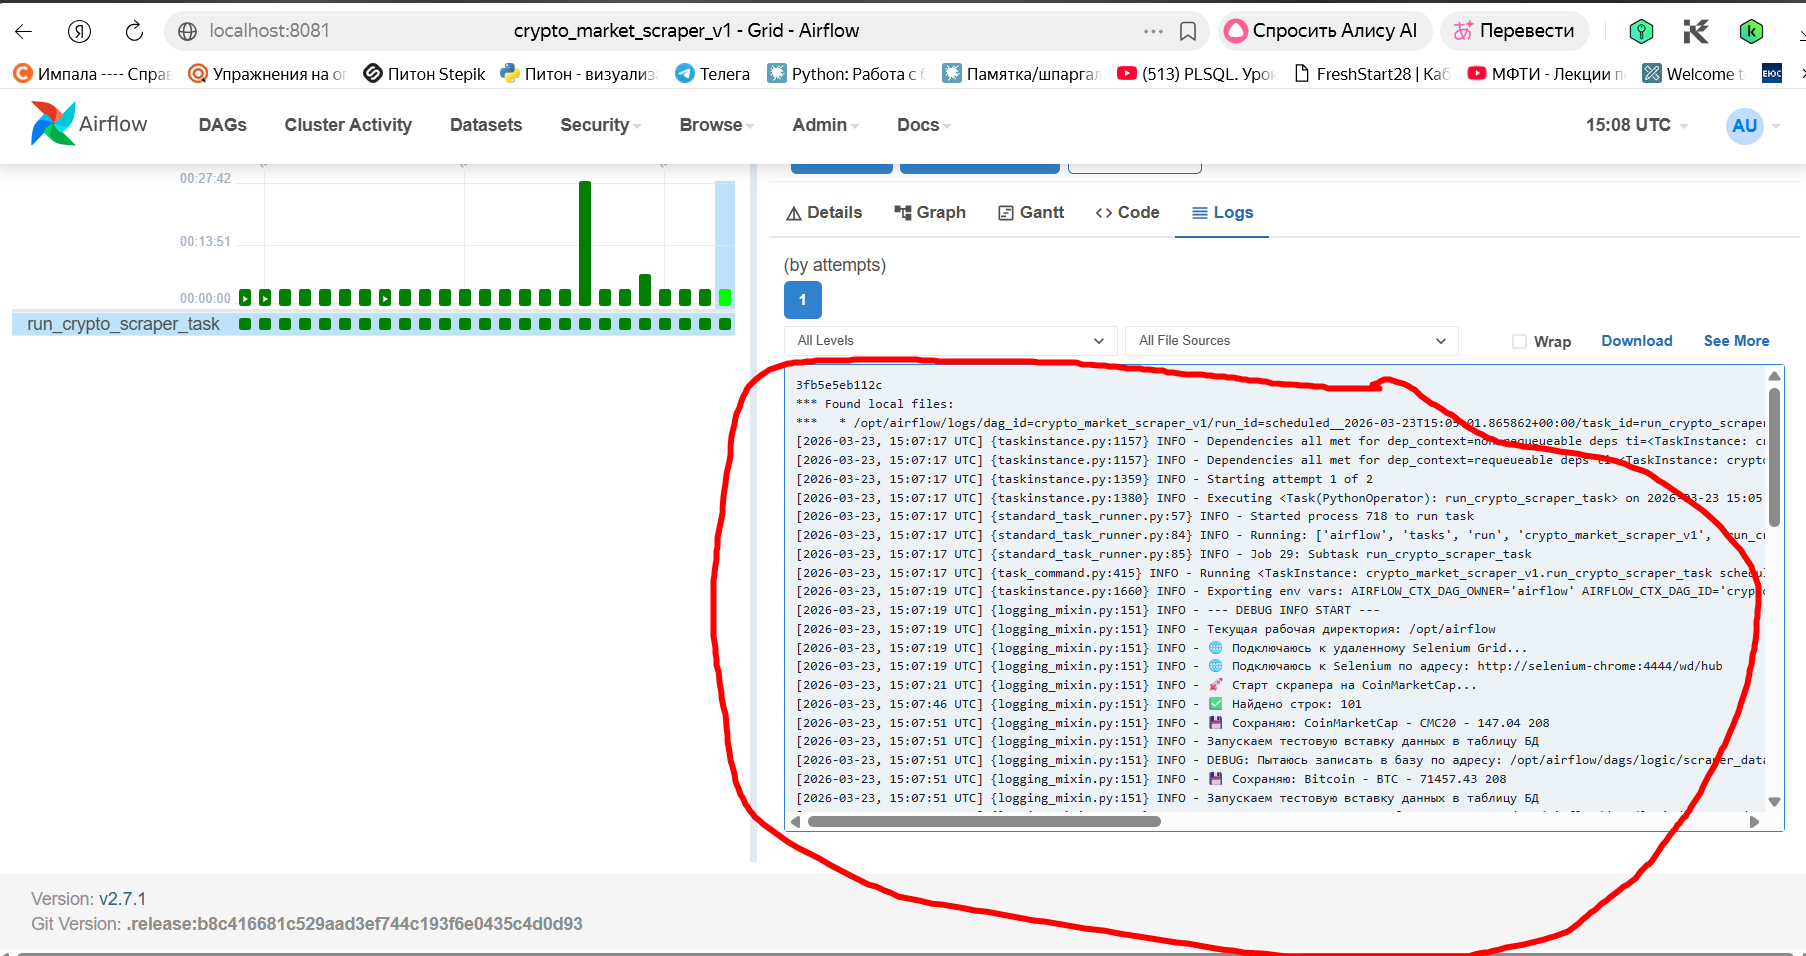
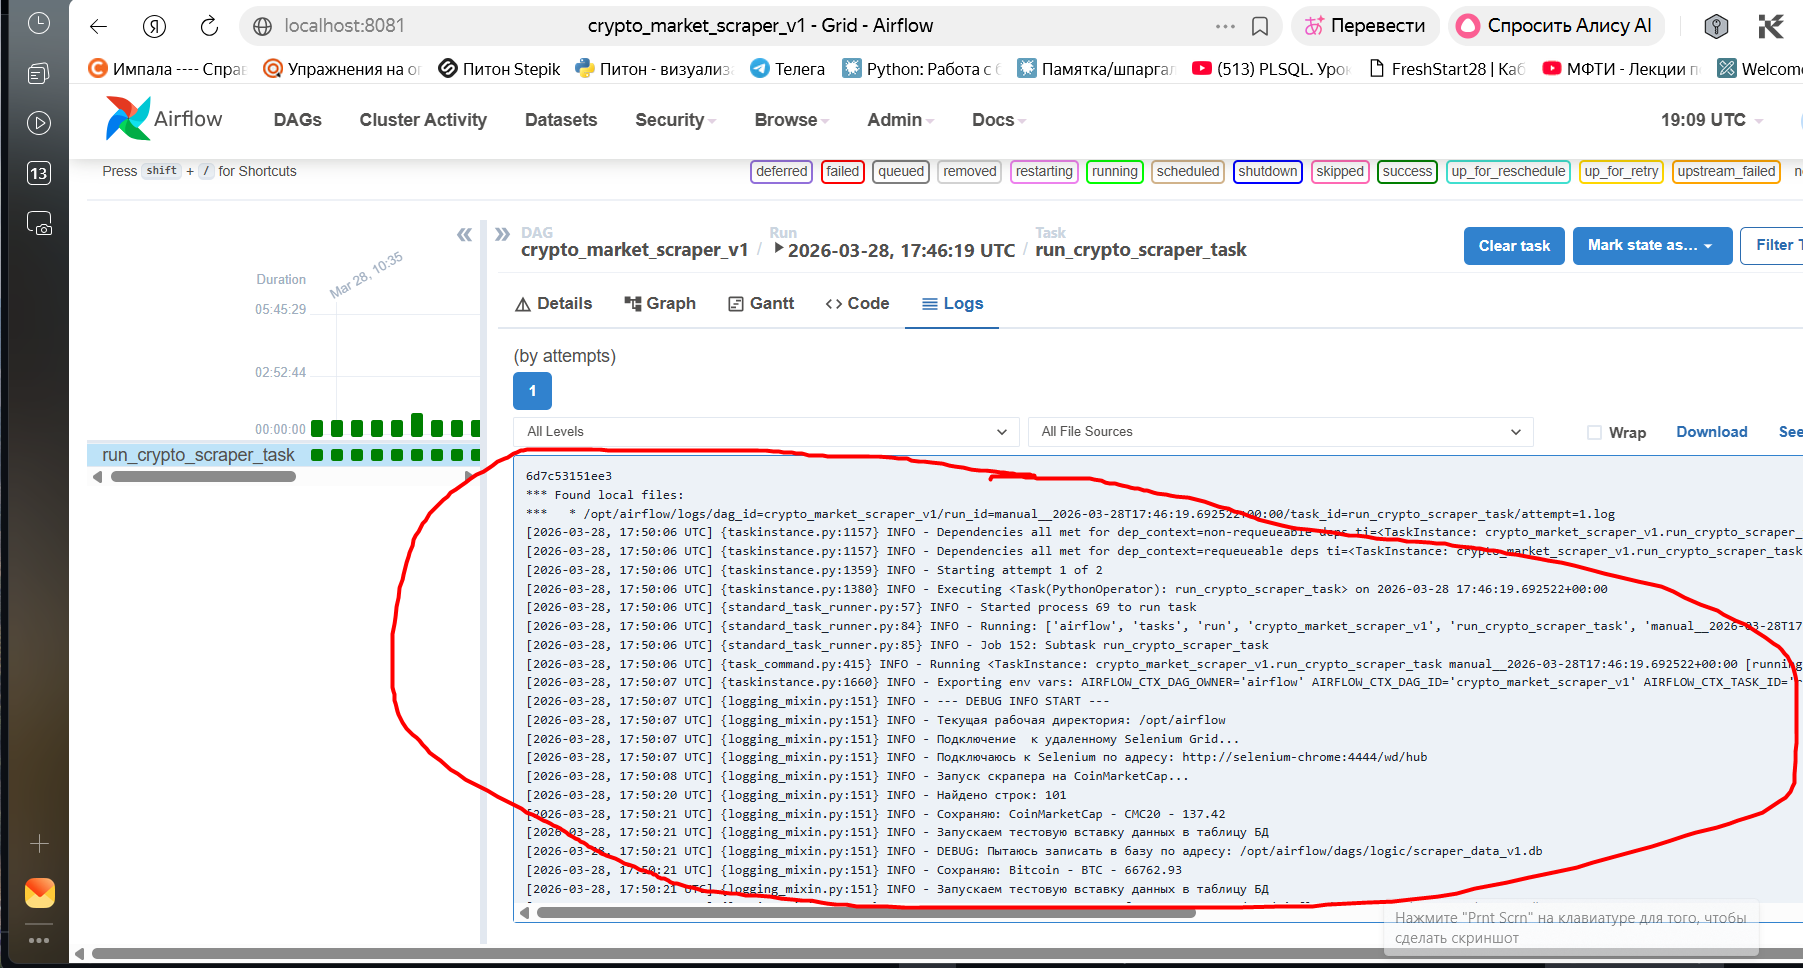
28.03.26 22:10 Поправил README, в том числе,  добавил в него  корректные скрины

Changed region(s): [[0.0, 0.0, 1.0, 1.0], [0.8386, 0.3337, 0.9939, 0.364], [0.0932, 0.2427, 0.1242, 0.273]]

diff --git a/README.md b/README.md
@@ -1,16 +1,17 @@
-📈 Crypto Market Scraper v1.0
-Crypto Market Scraper — это полностью автоматизированная система (ETL-процесс) для мониторинга рынка криптовалют. Проект собирает актуальные данные о ценах и капитализации с CoinMarketCap и сохраняет их в структурированную базу данных для последующего анализа.
+Crypto Market Scraper v1.0
+Crypto Market Scraper — это  автоматизированная система (ETL-процесс) для мониторинга рынка криптовалют. Проект собирает актуальные данные о ценах и капитализации с CoinMarketCap и сохраняет их в структурированную базу данных для последующего анализа.
 
-🏗 Архитектура системы
+Архитектура системы
+
 Проект реализован на базе Docker, что позволяет развернуть его на любой операционной системе (включая Windows) без конфликтов зависимостей.
-
 Система состоит из двух изолированных контейнеров, работающих в связке:
 
-Airflow Master: "Мозг" системы. Управляет расписанием задач, логированием и очередями.
+Airflow Master:  Управляет расписанием задач, логированием и очередями.
 
-Selenium Chrome: "Глаза" системы. Выделенный контейнер с браузером Chrome, который принимает команды от скрапера через удаленный драйвер (Remote Driver).
+Selenium Chrome:  Выделенный контейнер с браузером Chrome, который принимает команды от скрапера через удаленный драйвер (Remote Driver).
 
-🛠 Технологический стек
+Технологический стек
+
 Orchestration: Apache Airflow (настройка DAG с интервалом запуска 2 минуты).
 
 Scraping: Selenium WebDriver (обработка динамического контента).
@@ -19,7 +20,8 @@ Data Storage: SQLite (хранение данных в реляционном в
 
 Infrastructure: Docker & Docker Compose (оркестрация контейнеров).
 
-💎 Ключевые особенности
+Ключевые особенности
+
 Умная обработка тикеров: Реализован алгоритм очистки данных, который корректно разделяет название монеты и её символ (например, "Bitcoin" и "BTC"), предотвращая дублирование в базе данных.
 
 Контейнеризация драйверов: Использование selenium/standalone-chrome позволяет избежать проблем с установкой драйверов Chrome на локальную машину.
@@ -28,64 +30,69 @@ Infrastructure: Docker & Docker Compose (оркестрация контейне
 
 Модульная структура: Вся логика, работа с БД и библиотеки вынесены в отдельные модули внутри папки dags для удобства поддержки.
 
-🚀 Быстрый старт
-Клонируйте репозиторий:
+Быстрый старт
+
+Клонирование репозитория:
 
 Bash
 git clone https://github.com/Alexey0161/Project3_cripto.git
-Подготовьте окружение:
-Убедитесь, что у вас установлены Docker и Docker Desktop. Создайте папку logs в корне проекта, если она отсутствует.
 
-Запустите систему:
+Подготавливаем окружение:
+
+Установливаем/или проверяем, что установлены Docker и Docker Desktop. Создаем папку logs в корне проекта, если она отсутствует.
+
+Запускаем систему:
 
 Bash
 docker-compose up -d
 
-Примечание: Сборка образа при первом запуске может занять 2-3 минуты, так как Docker будет устанавливать зависимости из requirements.txt автоматически.
+Примечание: Сборка образа при первом запуске может занять 2-3 минуты, так как за это время Docker устанавливает зависимости из requirements.txt.
 
 Доступ к интерфейсу:
-Откройте браузер и перейдите по адресу http://localhost:8081.
+Открываем браузер и переходим по адресу http://localhost:8081.
 
-🛠 Запуск без Docker (Точка входа)
-Если вы хотите проверить работу скрапера без запуска Airflow:
+Запускаем без Docker (Точка входа)
 
-Подготовьте окружение:
+    для проверки работы скрапера без запуска Airflow:
+1. Подготавливаем окружение
+2. Из корня запускаем файл python dags/scraper_cripto.py- точка входа.
 
-Точка входа: Запустите файл dags/scraper_cripto.py.
+Примечание: Скрапер автоматически определяет, что запущен вне Airflow, и выполняет один цикл сбора данных.
 
-Примечание: Скрапер автоматически определит, что запущен вне Airflow, и выполнит один цикл сбора данных.
+База данных: Файл БД scraper_data_v1.db  создается автоматически в папке dags/bd_sqlite/. Пути менять вручную не нужно — система использует относительные пути проекта.
 
-База данных: Файл БД scraper_data_v1.db будет создан автоматически в папке dags/bd_sqlite/. Вам не нужно менять пути вручную — система использует относительные пути проекта.
-
-Система использует динамическое определение путей (os.path), поэтому база данных будет корректно создана в dags/bd_sqlite/ независимо от того, запускаете вы проект из корня или из папки скрипта.
+Система использует динамическое определение путей (os.path), поэтому база данных будет корректно создана в dags/bd_sqlite/ независимо от того, запускается проект из корня или из папки скрипта.
 
 Функционирование этой системы проверено путем удаления существовавшего файла с таблице БД и запуском скрапинга. Файл с таблицей БД был создан автоматически и заполнен данными с сайта.
 
-📊 Структура данных
+Структура данных
+
 Данные сохраняются в таблицу со следующими полями:
 
-Name — Название криптовалюты.
+coin_name   — Название криптовалюты.
+coin_ticker - Тикер криптовалюты
+price  — Актуальная цена в USD.
+date_checked — Время замера (UTC).
 
-Price — Актуальная цена в USD.
+Артефакты и результаты
 
-Timestamp — Время замера (UTC).
-
-📊 Артефакты и результаты
 Согласно ТЗ, результаты непрерывного скрапинга зафиксированы:
 
 Сырые данные: Находятся в репозитории в файле dags/bd_sqlite/scraper_data_v1.db.
 
-*)Анализ данных: В папке visualisations/ представлен отчет (Excel/Графики), показывающий динамику изменения цен криптовалют за период тестов.
+*)Анализ данных: В папке visualisations/ представлен отчет (Графики/CSV), показывающий динамику изменения цен криптовалют за период тестов.
+
 *P.S.  Согласно ТЗ, анализ данных будет разработан во второй части проекта
 
 Доказательство непрерывности и стабильности: На скриншотах в разделе " Визуализация работы ДАГ "  видны успешные запуски с интервалом в 2 минуты.
-Имеющиеся пропуски на графике связаны с остановкой контейнеров для внесения правок в логику путей.
 
+Имеющиеся пропуски на графике связаны с остановкой контейнеров для внесения правок в логику путей.
 Визуализация работы ДАГ:
+
 ![корректные запуски](image.png)
 ![корректные запуски_1](image-1.png)
 ![детализация отработки кода](image-2.png)
 
 Визуализация работы ДАГ через select из таблицы scrap:
-
 ![select * from scrap](image-4.png)
+
